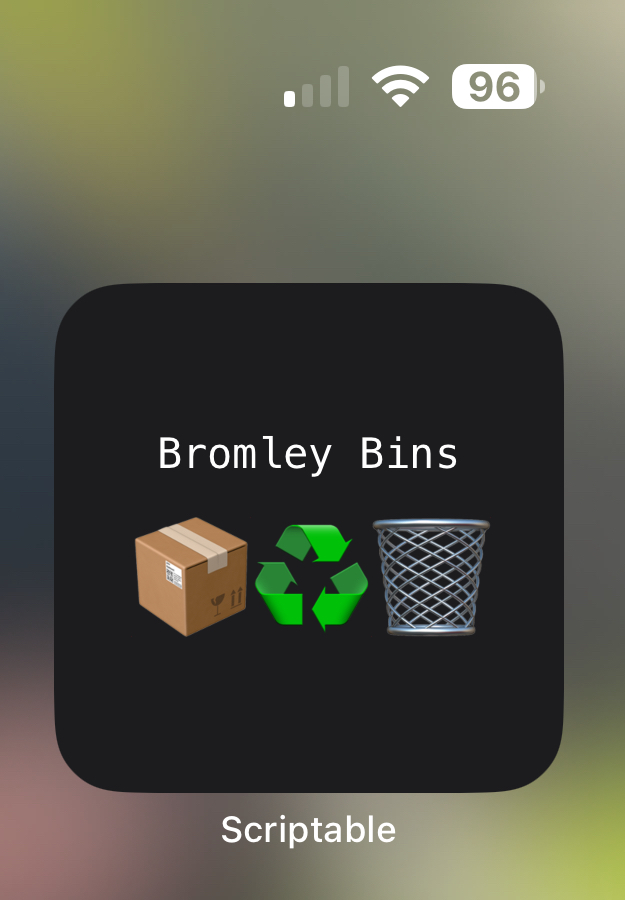
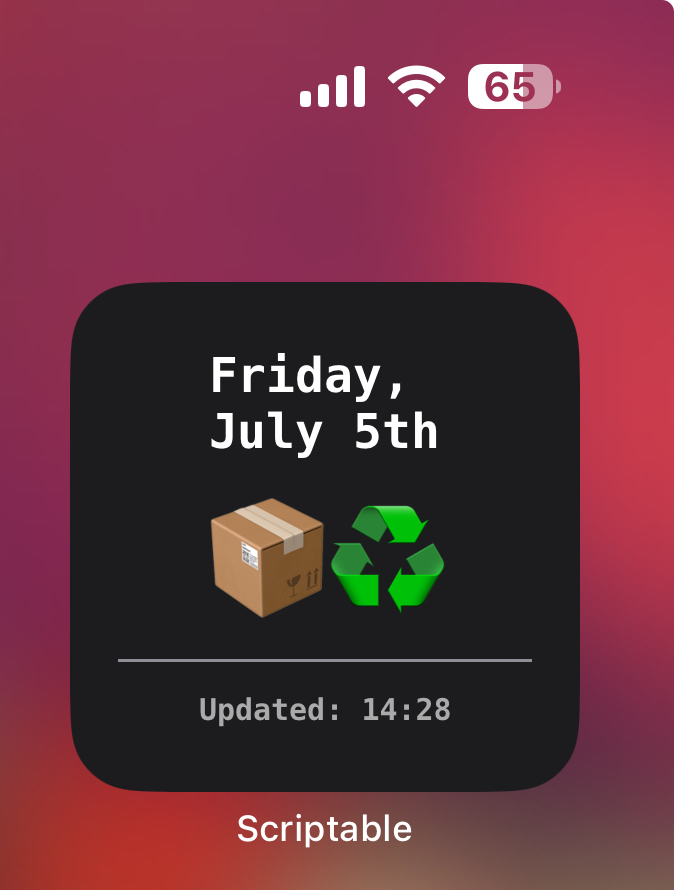
show next collections rather than the following day

diff --git a/bromley-bins/BromleyBins.js b/bromley-bins/BromleyBins.js
@@ -6,7 +6,7 @@
 // *********** Begin widget config **************
 // **********************************************
 
-// This widget will display any bins due for collection on the following day, given a valid Bromley "bin ID" (see below for instructions).
+// This widget will display your next bin collections, given a valid Bromley "bin ID" (see below for instructions).
 // Note this widget is only for residents of Bromley UK.
 // An accompanying app is available at https://apps.apple.com/gb/app/bromley-bins/id6504371978
 
@@ -25,14 +25,47 @@ const BINS_OF_INTEREST = ['Paper & Cardboard', 'Mixed Recycling (Cans, Plastics 
 const BIN_ICONS = ['📦', '♻', '🗑'];
 
 // The icon (or character) to represent no bins due for collection the following day
-const NO_COLLECTION_TOMORROW_ICON = '✖';
+const NO_COLLECTIONS_FOUND = '✖';
 
 // Server API URL - this should not need to be changed
-const BROMLEY_BINS_API_URL = `https://waste-collection.fly.dev/api/v1/bin/${BIN_ID}/bins_for_tomorrow`;
+const BROMLEY_BINS_API_URL = `https://waste-collection.fly.dev/api/v1/bin/${BIN_ID}/next_collections`;
 
 // General config
-const HEADER_FONT = new Font('Menlo', 14);
+const HEADER_FONT = new Font('Menlo-Bold', 16);
 const ICON_FONT = new Font('Menlo-Bold', 40);
+const FOOTER_FONT = new Font('Menlo-Bold', 10);
+
+// Request timeouts (in seconds)
+const DEFAULT_REQUEST_TIMEOUT_SECONDS = 10;
+
+
+
+// **********************************************
+// *********** Globals **************************
+// **********************************************
+
+// Returns the JSON for the given URL
+async function getJson(url, timeout = DEFAULT_REQUEST_TIMEOUT_SECONDS) {
+    try {
+        const request = new Request(url);
+        request.timeoutInterval = timeout;
+        return await request.loadJSON();
+    }
+    catch (error) {
+        console.error(`Unable to get JSON data from ${url}: ${error}`);
+        return undefined;
+    }
+}
+
+// Show a section separator (horizontal gray line)
+function sectionSeparator() {
+    widget.addSpacer(10);
+    let hline = widget.addStack();
+    hline.size = new Size(0, 1);
+    hline.backgroundColor = Color.gray();
+    hline.addSpacer();
+    widget.addSpacer(10);
+}
 
 
 // **********************************************
@@ -50,40 +83,16 @@ widget.refreshAfterDate = new Date(nextRefresh);
 // **********************************************
 // *********** Begin bins section ***************
 // **********************************************
-
-async function getBinIconsLabel() {
-    const binsRequest = new Request(BROMLEY_BINS_API_URL);
-    const binsForTomorrow = await binsRequest.loadJSON();
-
-    let binContent = '';
-    if (binsForTomorrow && binsForTomorrow.length > 0) {
-        let binIndex = 0;
-        for (const bin of binsForTomorrow) {
-            log(bin);
-            if (BINS_OF_INTEREST.includes(bin)) {
-                log('Adding bin of interest: ' + bin);
-                binContent += BIN_ICONS[binIndex];
-                binIndex++;
-            }
-        }
-    }
-    else {
-        binContent = NO_COLLECTION_TOMORROW_ICON;
-    }
-
-    return binContent;
-}
-
-
-// **********************************************
-// *********** Begin footer section *************
-// **********************************************`
 const body = widget.addStack();
 body.layoutVertically();
 
+// Get the next collections data from the API
+const nextCollections = await getJson(BROMLEY_BINS_API_URL);
+
+// Header - next collection date
 const header = body.addStack();
 header.addSpacer();
-const headerText = header.addText('Bromley Bins');
+const headerText = header.addText(nextCollections.nextCollectionDateFriendly); 
 header.addSpacer();
 headerText.font = HEADER_FONT;
 header.centerAlignContent();
@@ -91,6 +100,7 @@ body.addStack(header);
 
 body.addSpacer(10);
 
+// Bin icons
 const binIconsRow = body.addStack();
 const binIconsLabel = await getBinIconsLabel();
 if (binIconsLabel.length > 0) {
@@ -101,6 +111,47 @@ if (binIconsLabel.length > 0) {
     binIconsRow.centerAlignContent();
     body.addStack(binIconsRow);
 }
+
+function getBinIconsLabel() {
+
+    let binContent = '';
+    if (nextCollections && nextCollections.bins && nextCollections.bins.length > 0) {
+        let binIndex = 0;
+        for (const bin of nextCollections.bins) {
+            log(bin);
+            if (BINS_OF_INTEREST.includes(bin)) {
+                log('Adding bin of interest: ' + bin);
+                binContent += BIN_ICONS[binIndex];
+                binIndex++;
+            }
+        }
+    }
+    else {
+        binContent = NO_COLLECTIONS_FOUND;
+    }
+
+    return binContent;
+}
+
+
+
+sectionSeparator();
+
+
+
+// **********************************************
+// *********** Begin footer section *************
+// **********************************************`
+const footer = widget.addStack();
+
+footer.addSpacer();
+const lastUpdatedText = footer.addText(`Updated: ${new Date().toLocaleTimeString('en-GB', { hour: 'numeric', minute: 'numeric' })}`); 
+footer.addSpacer();
+lastUpdatedText.font = FOOTER_FONT;
+lastUpdatedText.textColor = Color.lightGray();
+lastUpdatedText.lineLimit = 1;
+lastUpdatedText.centerAlignText();
+
 
 
 Script.setWidget(widget);
